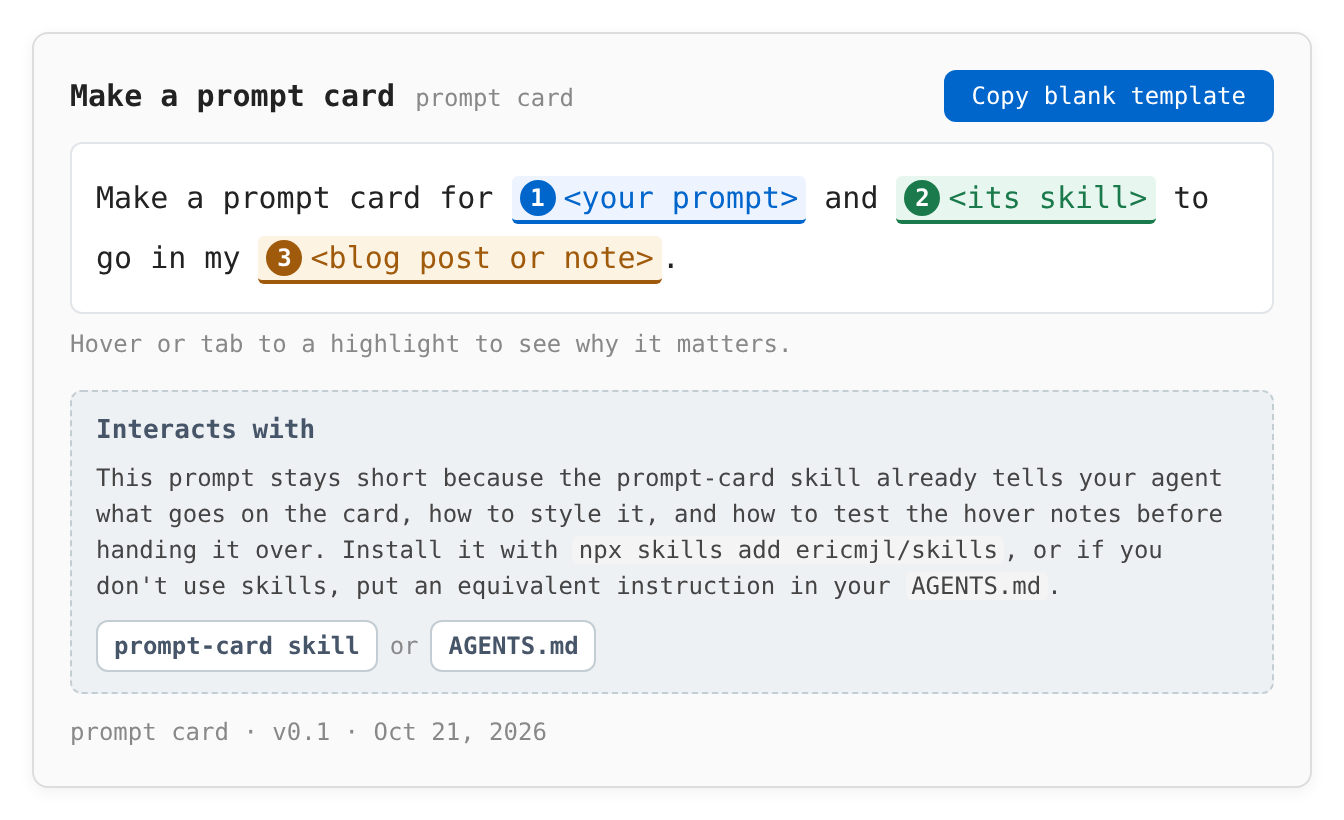
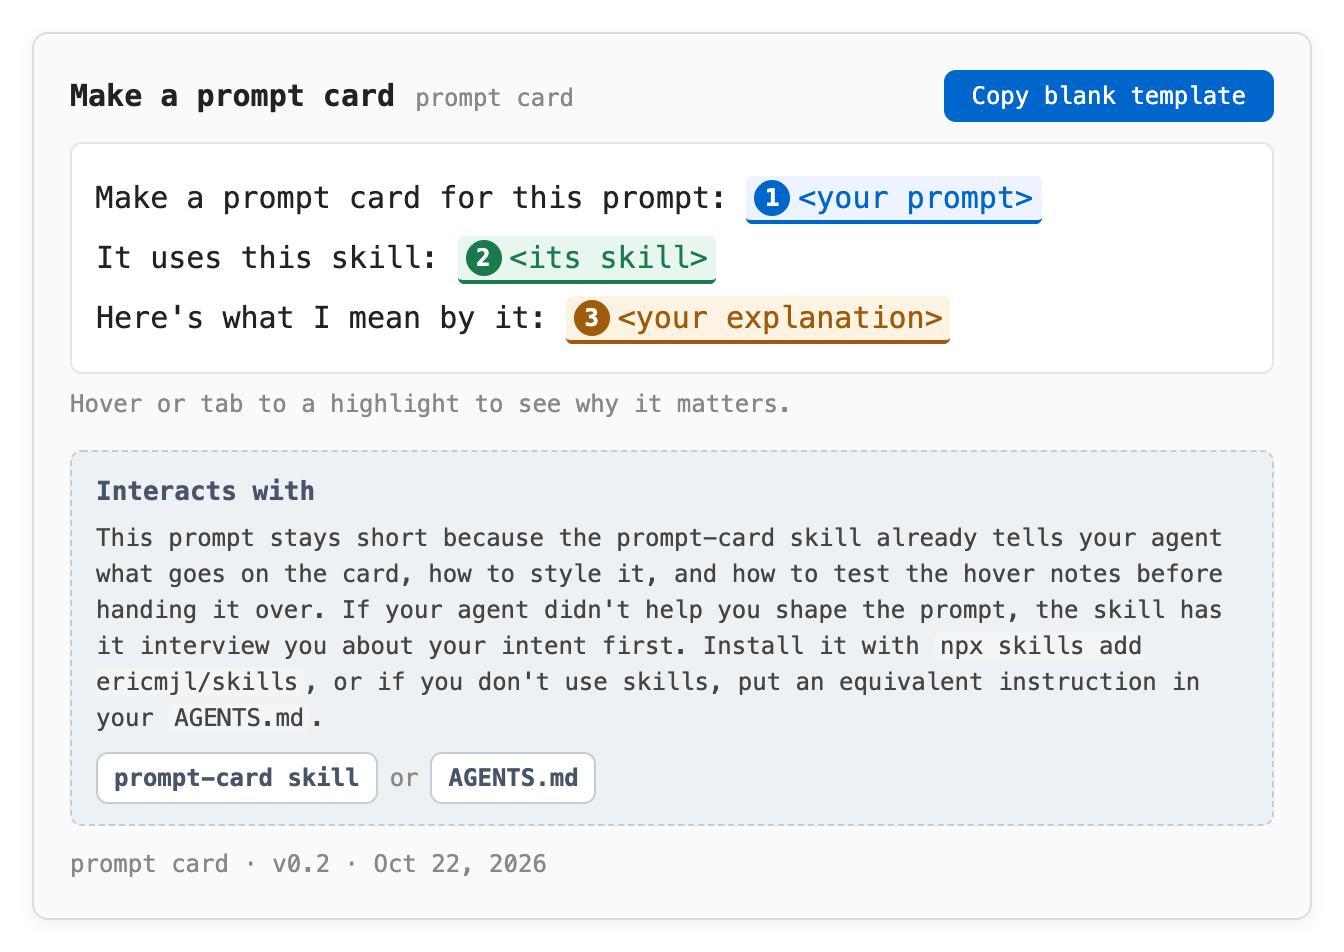
feat(prompt-card): take prompt, optional skill, and optional intent; infer destination
- Inputs are now the prompt (required), the skill or AGENTS.md it uses
  (optional), and the user's explanation of what they mean (optional).
- New step: learn the intent behind the key words from the conversation,
  or interview the user (informed by the skill) before writing hover notes.
- Infer where the card goes from context instead of asking; ask only if
  unclear. Embedded cards stay the slim hover widget.
- Interacts with may be omitted or cut to one line for a bare prompt.
- make-a-prompt-card example: three-line template, v0.2, new screenshots.

diff --git a/skills/prompt-card/assets/examples/make-a-prompt-card/standalone.html b/skills/prompt-card/assets/examples/make-a-prompt-card/standalone.html
@@ -102,12 +102,14 @@ body { margin: 0; padding: 16px; background: #ffffff; }
 <body>
 <article class="prompt-card" aria-labelledby="pc-title">
 <div class="pc-head"><div class="pc-titles"><h1 class="pc-title" id="pc-title">Make a prompt card</h1><span class="pc-eyebrow">prompt card</span></div><button type="button" class="pc-copy" id="pc-copy">Copy blank template</button></div>
-<div class="pc-template">Make a prompt card for <span class="pc-slot pc-s1" tabindex="0" title="Paste the exact prompt you use, with its blanks left in. Each blank becomes a numbered, color-coded highlight, so the card can only be as clear as the prompt you give it."><span class="pc-tag">1</span>&lt;your prompt&gt;<span class="pc-pop" style="display:none"><b>&lt;your prompt&gt;</b>Paste the exact prompt you use, with its blanks left in. Each blank becomes a numbered, color-coded highlight, so the card can only be as clear as the prompt you give it.</span></span> and <span class="pc-slot pc-s2" tabindex="0" title="Name the agent skill or AGENTS.md instructions your prompt uses, and where they live. The agent reads them before writing any note, so the card says what they really do instead of guessing."><span class="pc-tag">2</span>&lt;its skill&gt;<span class="pc-pop pc-pop-end" style="display:none"><b>&lt;its skill&gt;</b>Name the agent skill or AGENTS.md instructions your prompt uses, and where they live. The agent reads them before writing any note, so the card says what they really do instead of guessing.</span></span> to go in my <span class="pc-slot pc-s3" tabindex="0" title="Say where the card will live. A blog post gets a standalone page with a copy button, and an Obsidian note gets inline markup plus a CSS snippet, since Obsidian strips scripts."><span class="pc-tag">3</span>&lt;blog post or note&gt;<span class="pc-pop" style="display:none"><b>&lt;blog post or note&gt;</b>Say where the card will live. A blog post gets a standalone page with a copy button, and an Obsidian note gets inline markup plus a CSS snippet, since Obsidian strips scripts.</span></span>.</div>
+<div class="pc-template"><div>Make a prompt card for this prompt: <span class="pc-slot pc-s1" tabindex="0" title="Paste the exact prompt you use, with its blanks left in. Each blank becomes a numbered, color-coded highlight, so the card can only be as clear as the prompt you give it."><span class="pc-tag">1</span>&lt;your prompt&gt;<span class="pc-pop pc-pop-end" style="display:none"><b>&lt;your prompt&gt;</b>Paste the exact prompt you use, with its blanks left in. Each blank becomes a numbered, color-coded highlight, so the card can only be as clear as the prompt you give it.</span></span></div><div>It uses this skill: <span class="pc-slot pc-s2" tabindex="0" title="Optional. Name the skill or AGENTS.md instructions your prompt uses so the agent can read them and describe what they really do, or skip this line when the prompt stands alone."><span class="pc-tag">2</span>&lt;its skill&gt;<span class="pc-pop" style="display:none"><b>&lt;its skill&gt;</b>Optional. Name the skill or AGENTS.md instructions your prompt uses so the agent can read them and describe what they really do, or skip this line when the prompt stands alone.</span></span></div><div>Here&#39;s what I mean by it: <span class="pc-slot pc-s3" tabindex="0" title="Optional. If your agent helped you refine the prompt, it already knows your intent, and otherwise it will interview you about it before writing the card."><span class="pc-tag">3</span>&lt;your explanation&gt;<span class="pc-pop" style="display:none"><b>&lt;your explanation&gt;</b>Optional. If your agent helped you refine the prompt, it already knows your intent, and otherwise it will interview you about it before writing the card.</span></span></div></div>
 <p class="pc-hint pc-hint-below">Hover or tab to a highlight to see why it matters.</p>
-<div class="pc-interacts"><div class="pc-interacts-title">Interacts with</div><p class="pc-interacts-text">This prompt stays short because the prompt-card skill already tells your agent what goes on the card, how to style it, and how to test the hover notes before handing it over. Install it with <code>npx skills add ericmjl/skills</code>, or if you don&#39;t use skills, put an equivalent instruction in your <code>AGENTS.md</code>.</p><div class="pc-chips"><a class="pc-chip" href="https://github.com/ericmjl/skills/tree/main/skills/prompt-card">prompt-card skill</a><span class="pc-op">or</span><span class="pc-chip">AGENTS.md</span></div></div>
-<div class="pc-foot">prompt card · v0.1 · Oct 21, 2026</div>
+<div class="pc-interacts"><div class="pc-interacts-title">Interacts with</div><p class="pc-interacts-text">This prompt stays short because the prompt-card skill already tells your agent what goes on the card, how to style it, and how to test the hover notes before handing it over. If your agent didn&#39;t help you shape the prompt, the skill has it interview you about your intent first. Install it with <code>npx skills add ericmjl/skills</code>, or if you don&#39;t use skills, put an equivalent instruction in your <code>AGENTS.md</code>.</p><div class="pc-chips"><a class="pc-chip" href="https://github.com/ericmjl/skills/tree/main/skills/prompt-card">prompt-card skill</a><span class="pc-op">or</span><span class="pc-chip">AGENTS.md</span></div></div>
+<div class="pc-foot">prompt card · v0.2 · Oct 22, 2026</div>
 <!-- Plain-text prompt the Copy button puts on the clipboard. Escape angle brackets. -->
-<textarea id="pc-plain" hidden readonly>Make a prompt card for &lt;your prompt&gt; and &lt;its skill&gt; to go in my &lt;blog post or note&gt;.</textarea>
+<textarea id="pc-plain" hidden readonly>Make a prompt card for this prompt: &lt;your prompt&gt;
+It uses this skill: &lt;its skill&gt;
+Here&#39;s what I mean by it: &lt;your explanation&gt;</textarea>
 </article>
 <script>
 (function () {

diff --git a/skills/prompt-card/assets/examples/make-a-prompt-card/in-note.html b/skills/prompt-card/assets/examples/make-a-prompt-card/in-note.html
@@ -1,6 +1,6 @@
 <div class="prompt-card">
 <div class="pc-head"><div class="pc-titles"><span class="pc-title">Make a prompt card</span><span class="pc-eyebrow">prompt card</span></div><span class="pc-hint">Hover a highlight to see why it matters</span></div>
-<div class="pc-template">Make a prompt card for <span class="pc-slot pc-s1" tabindex="0" title="Paste the exact prompt you use, with its blanks left in. Each blank becomes a numbered, color-coded highlight, so the card can only be as clear as the prompt you give it."><span class="pc-tag">1</span>&lt;your prompt&gt;<span class="pc-pop" style="display:none"><b>&lt;your prompt&gt;</b>Paste the exact prompt you use, with its blanks left in. Each blank becomes a numbered, color-coded highlight, so the card can only be as clear as the prompt you give it.</span></span> and <span class="pc-slot pc-s2" tabindex="0" title="Name the agent skill or AGENTS.md instructions your prompt uses, and where they live. The agent reads them before writing any note, so the card says what they really do instead of guessing."><span class="pc-tag">2</span>&lt;its skill&gt;<span class="pc-pop pc-pop-end" style="display:none"><b>&lt;its skill&gt;</b>Name the agent skill or AGENTS.md instructions your prompt uses, and where they live. The agent reads them before writing any note, so the card says what they really do instead of guessing.</span></span> to go in my <span class="pc-slot pc-s3" tabindex="0" title="Say where the card will live. A blog post gets a standalone page with a copy button, and an Obsidian note gets inline markup plus a CSS snippet, since Obsidian strips scripts."><span class="pc-tag">3</span>&lt;blog post or note&gt;<span class="pc-pop" style="display:none"><b>&lt;blog post or note&gt;</b>Say where the card will live. A blog post gets a standalone page with a copy button, and an Obsidian note gets inline markup plus a CSS snippet, since Obsidian strips scripts.</span></span>.</div>
-<div class="pc-interacts"><div class="pc-interacts-title">Interacts with</div><p class="pc-interacts-text">This prompt stays short because the prompt-card skill already tells your agent what goes on the card, how to style it, and how to test the hover notes before handing it over. Install it with <code>npx skills add ericmjl/skills</code>, or if you don&#39;t use skills, put an equivalent instruction in your <code>AGENTS.md</code>.</p><div class="pc-chips"><a class="pc-chip" style="text-decoration:none" href="https://github.com/ericmjl/skills/tree/main/skills/prompt-card">prompt-card skill</a><span class="pc-op">or</span><span class="pc-chip">AGENTS.md</span></div></div>
-<div class="pc-foot">prompt card · v0.1 · Oct 21, 2026</div>
+<div class="pc-template"><div>Make a prompt card for this prompt: <span class="pc-slot pc-s1" tabindex="0" title="Paste the exact prompt you use, with its blanks left in. Each blank becomes a numbered, color-coded highlight, so the card can only be as clear as the prompt you give it."><span class="pc-tag">1</span>&lt;your prompt&gt;<span class="pc-pop pc-pop-end" style="display:none"><b>&lt;your prompt&gt;</b>Paste the exact prompt you use, with its blanks left in. Each blank becomes a numbered, color-coded highlight, so the card can only be as clear as the prompt you give it.</span></span></div><div>It uses this skill: <span class="pc-slot pc-s2" tabindex="0" title="Optional. Name the skill or AGENTS.md instructions your prompt uses so the agent can read them and describe what they really do, or skip this line when the prompt stands alone."><span class="pc-tag">2</span>&lt;its skill&gt;<span class="pc-pop" style="display:none"><b>&lt;its skill&gt;</b>Optional. Name the skill or AGENTS.md instructions your prompt uses so the agent can read them and describe what they really do, or skip this line when the prompt stands alone.</span></span></div><div>Here&#39;s what I mean by it: <span class="pc-slot pc-s3" tabindex="0" title="Optional. If your agent helped you refine the prompt, it already knows your intent, and otherwise it will interview you about it before writing the card."><span class="pc-tag">3</span>&lt;your explanation&gt;<span class="pc-pop" style="display:none"><b>&lt;your explanation&gt;</b>Optional. If your agent helped you refine the prompt, it already knows your intent, and otherwise it will interview you about it before writing the card.</span></span></div></div>
+<div class="pc-interacts"><div class="pc-interacts-title">Interacts with</div><p class="pc-interacts-text">This prompt stays short because the prompt-card skill already tells your agent what goes on the card, how to style it, and how to test the hover notes before handing it over. If your agent didn&#39;t help you shape the prompt, the skill has it interview you about your intent first. Install it with <code>npx skills add ericmjl/skills</code>, or if you don&#39;t use skills, put an equivalent instruction in your <code>AGENTS.md</code>.</p><div class="pc-chips"><a class="pc-chip" style="text-decoration:none" href="https://github.com/ericmjl/skills/tree/main/skills/prompt-card">prompt-card skill</a><span class="pc-op">or</span><span class="pc-chip">AGENTS.md</span></div></div>
+<div class="pc-foot">prompt card · v0.2 · Oct 22, 2026</div>
 </div>

diff --git a/skills/prompt-card/SKILL.md b/skills/prompt-card/SKILL.md
@@ -1,6 +1,6 @@
 ---
 name: prompt-card
-description: "Build a brief, interactive prompt card: a small card that teaches a reader one fill-in prompt, with numbered color-coded slots whose 'why it matters' notes pop up on hover, and an 'Interacts with' section naming the skill or AGENTS.md instructions the prompt relies on. Use when someone wants a prompt card for a prompt, agent skill, or workflow, to embed at the end of a blog post section, paste into an Obsidian note, or publish as a standalone HTML page. Triggers include 'make a prompt card', 'turn this prompt into a card', 'add a prompt card to this post', or 'show readers the prompt I use'."
+description: "Build a brief, interactive prompt card: a small card that teaches a reader one prompt, with numbered color-coded slots whose 'why it matters' notes pop up on hover, and, when the prompt relies on one, an 'Interacts with' section naming the skill or AGENTS.md instructions behind it. Takes the prompt, optionally the skill it uses, and optionally the user's explanation of what they mean; if the intent isn't already clear from the conversation, interviews the user about it. Works out from context whether the card goes in a blog post (standalone HTML widget) or an Obsidian note (note markup plus CSS snippet). Use when someone wants a prompt card for a prompt, agent skill, or workflow. Triggers include 'make a prompt card', 'turn this prompt into a card', 'add a prompt card to this post', or 'show readers the prompt I use'."
 license: MIT
 ---
 
@@ -10,11 +10,28 @@ license: MIT
 
 Use this skill when someone wants to show readers a prompt they actually use, in a form readers can copy and understand. The card sits at the bottom of a blog section or inside a note, so it has to be brief: roughly 350 to 500px tall at 640px wide.
 
-Ask for these when missing:
+The card takes up to three inputs:
 
-- The exact prompt, with its blanks.
-- The skill or AGENTS.md instructions the prompt relies on, and where they live.
-- Where the card goes: a blog post, an Obsidian note, or both.
+- **The prompt (required).** The exact prompt the user types, with its blanks. Ask for it if it's missing.
+- **The skill or AGENTS.md instructions it uses (optional).** Where they live, so you can read them. A card can be for a bare prompt. In that case, leave out the Interacts with section, or cut it to one line saying the prompt needs no setup.
+- **What the user means by it (optional).** Their explanation of the key words: why each one is there and what goes wrong without it.
+
+## Learn the intent behind the key words
+
+The hover notes explain why each word is there, so they have to say what the user means, not what you guess. Settle this before you write any hover note.
+
+- If you iterated on the prompt with the user in this conversation, use what you learned there.
+- If the user explained what they mean, use that, and ask only about gaps.
+- Otherwise, interview the user. Ask a few short questions about the key words and blanks: what each one is for, and what goes wrong without it. If a skill is given, read it first, so your questions reflect what it actually does and you can offer a likely answer for the user to confirm or correct.
+
+## Work out where the card goes
+
+Infer the destination from context, such as the file you're editing, the folder it's in, or how the user describes the card. Ask only if it's unclear.
+
+- A blog post or website gets the standalone HTML widget, embedded with an iframe, with a Copy blank template button.
+- An Obsidian note gets in-note markup plus a CSS snippet, because Obsidian strips scripts.
+
+Either way, a card embedded in a post or note stays the slim hover widget described below. Anything longer belongs in the prose around it or on a standalone page.
 
 ## What the card contains
 
@@ -23,14 +40,15 @@ Keep to these parts, in this order, and nothing else:
 1. **Header.** The card title, a small "prompt card" label, and the hint "Hover a highlight to see why it matters". The standalone version puts the Copy blank template button in the header and the hint just under the template.
 2. **The template.** The prompt in a white box. The parts that matter most are numbered, color-coded slots: 1 blue, 2 green, 3 amber, and 4 slate only if you truly need a fourth. Three slots is the sweet spot.
 3. **Why notes as popovers.** Each slot reveals its note on hover or keyboard focus. Don't add an always-visible list of notes. Put the same text in the slot's `title=` attribute as a fallback.
-4. **Interacts with.** A slate section with no number badge. One or two sentences on the standing instructions the prompt relies on (an agent skill, or else an AGENTS.md instruction) and what they supply, followed by chips naming them. This is what explains why a short prompt works.
+4. **Interacts with.** A slate section with no number badge. One or two sentences on the standing instructions the prompt relies on (an agent skill, or else an AGENTS.md instruction) and what they supply, followed by chips naming them. This is what explains why a short prompt works. If the prompt stands alone, leave this section out or cut it to one line.
 5. **Footer.** One line: label, version, date.
 
 Leave out metadata tables, skill lists, intended use, worked examples, limitations, and next steps. If the post needs those, they belong in the prose around the card.
 
 ## Ground it before you write
 
-- Read the real skill and AGENTS.md the prompt relies on before writing any why note or the Interacts with text. Describe what they actually tell the agent to do.
+- If the prompt relies on a skill or AGENTS.md, read the real instructions before writing any why note or the Interacts with text. Describe what they actually tell the agent to do.
+- Base each why note on the user's intent from the step above, not on your own reading of the words.
 - Don't invent capabilities. If a note implies something the instructions don't say, reword it or flag it to the user.
 - Never link a private repo. Name a private skill as plain text. Link public skills only after you've confirmed the folder exists.
 - Report any gaps between what the blog post claims and what the instructions say, rather than smoothing them over on the card.
@@ -97,5 +115,5 @@ Before overwriting, save the previous file as `*.vN.html` (and its PNG). Bump th
 - `assets/obsidian-snippet.css`: the scoped card CSS for a vault snippet, including an optional slot 4.
 - `assets/obsidian-note-snippet.html`: in-note markup with placeholders.
 - `assets/examples/ingest-a-source/`: a filled-in card for "Ingest <url/file> into my <name of vault> please." Contains `standalone.html`, `in-note.html`, `obsidian-snippet.css`, and `hover.png`.
-- `assets/examples/make-a-prompt-card/`: a filled-in card for "Make a prompt card for <your prompt> and <its skill> to go in my <blog post or note>." Contains `standalone.html`, `in-note.html`, `obsidian-snippet.css`, `default.png`, and `hover.png`.
+- `assets/examples/make-a-prompt-card/`: a filled-in card whose template has three lines: "Make a prompt card for this prompt: <your prompt>", "It uses this skill: <its skill>", and "Here's what I mean by it: <your explanation>". The second and third lines are optional. Contains `standalone.html`, `in-note.html`, `obsidian-snippet.css`, `default.png`, and `hover.png`.
 - `assets/examples/build-a-landing-page/`: a filled-in card for "Build a landing page for my <name of vault> please, in <look or palette>." Contains `standalone.html`, `in-note.html`, `obsidian-snippet.css`, `default.png`, and `hover.png`.
